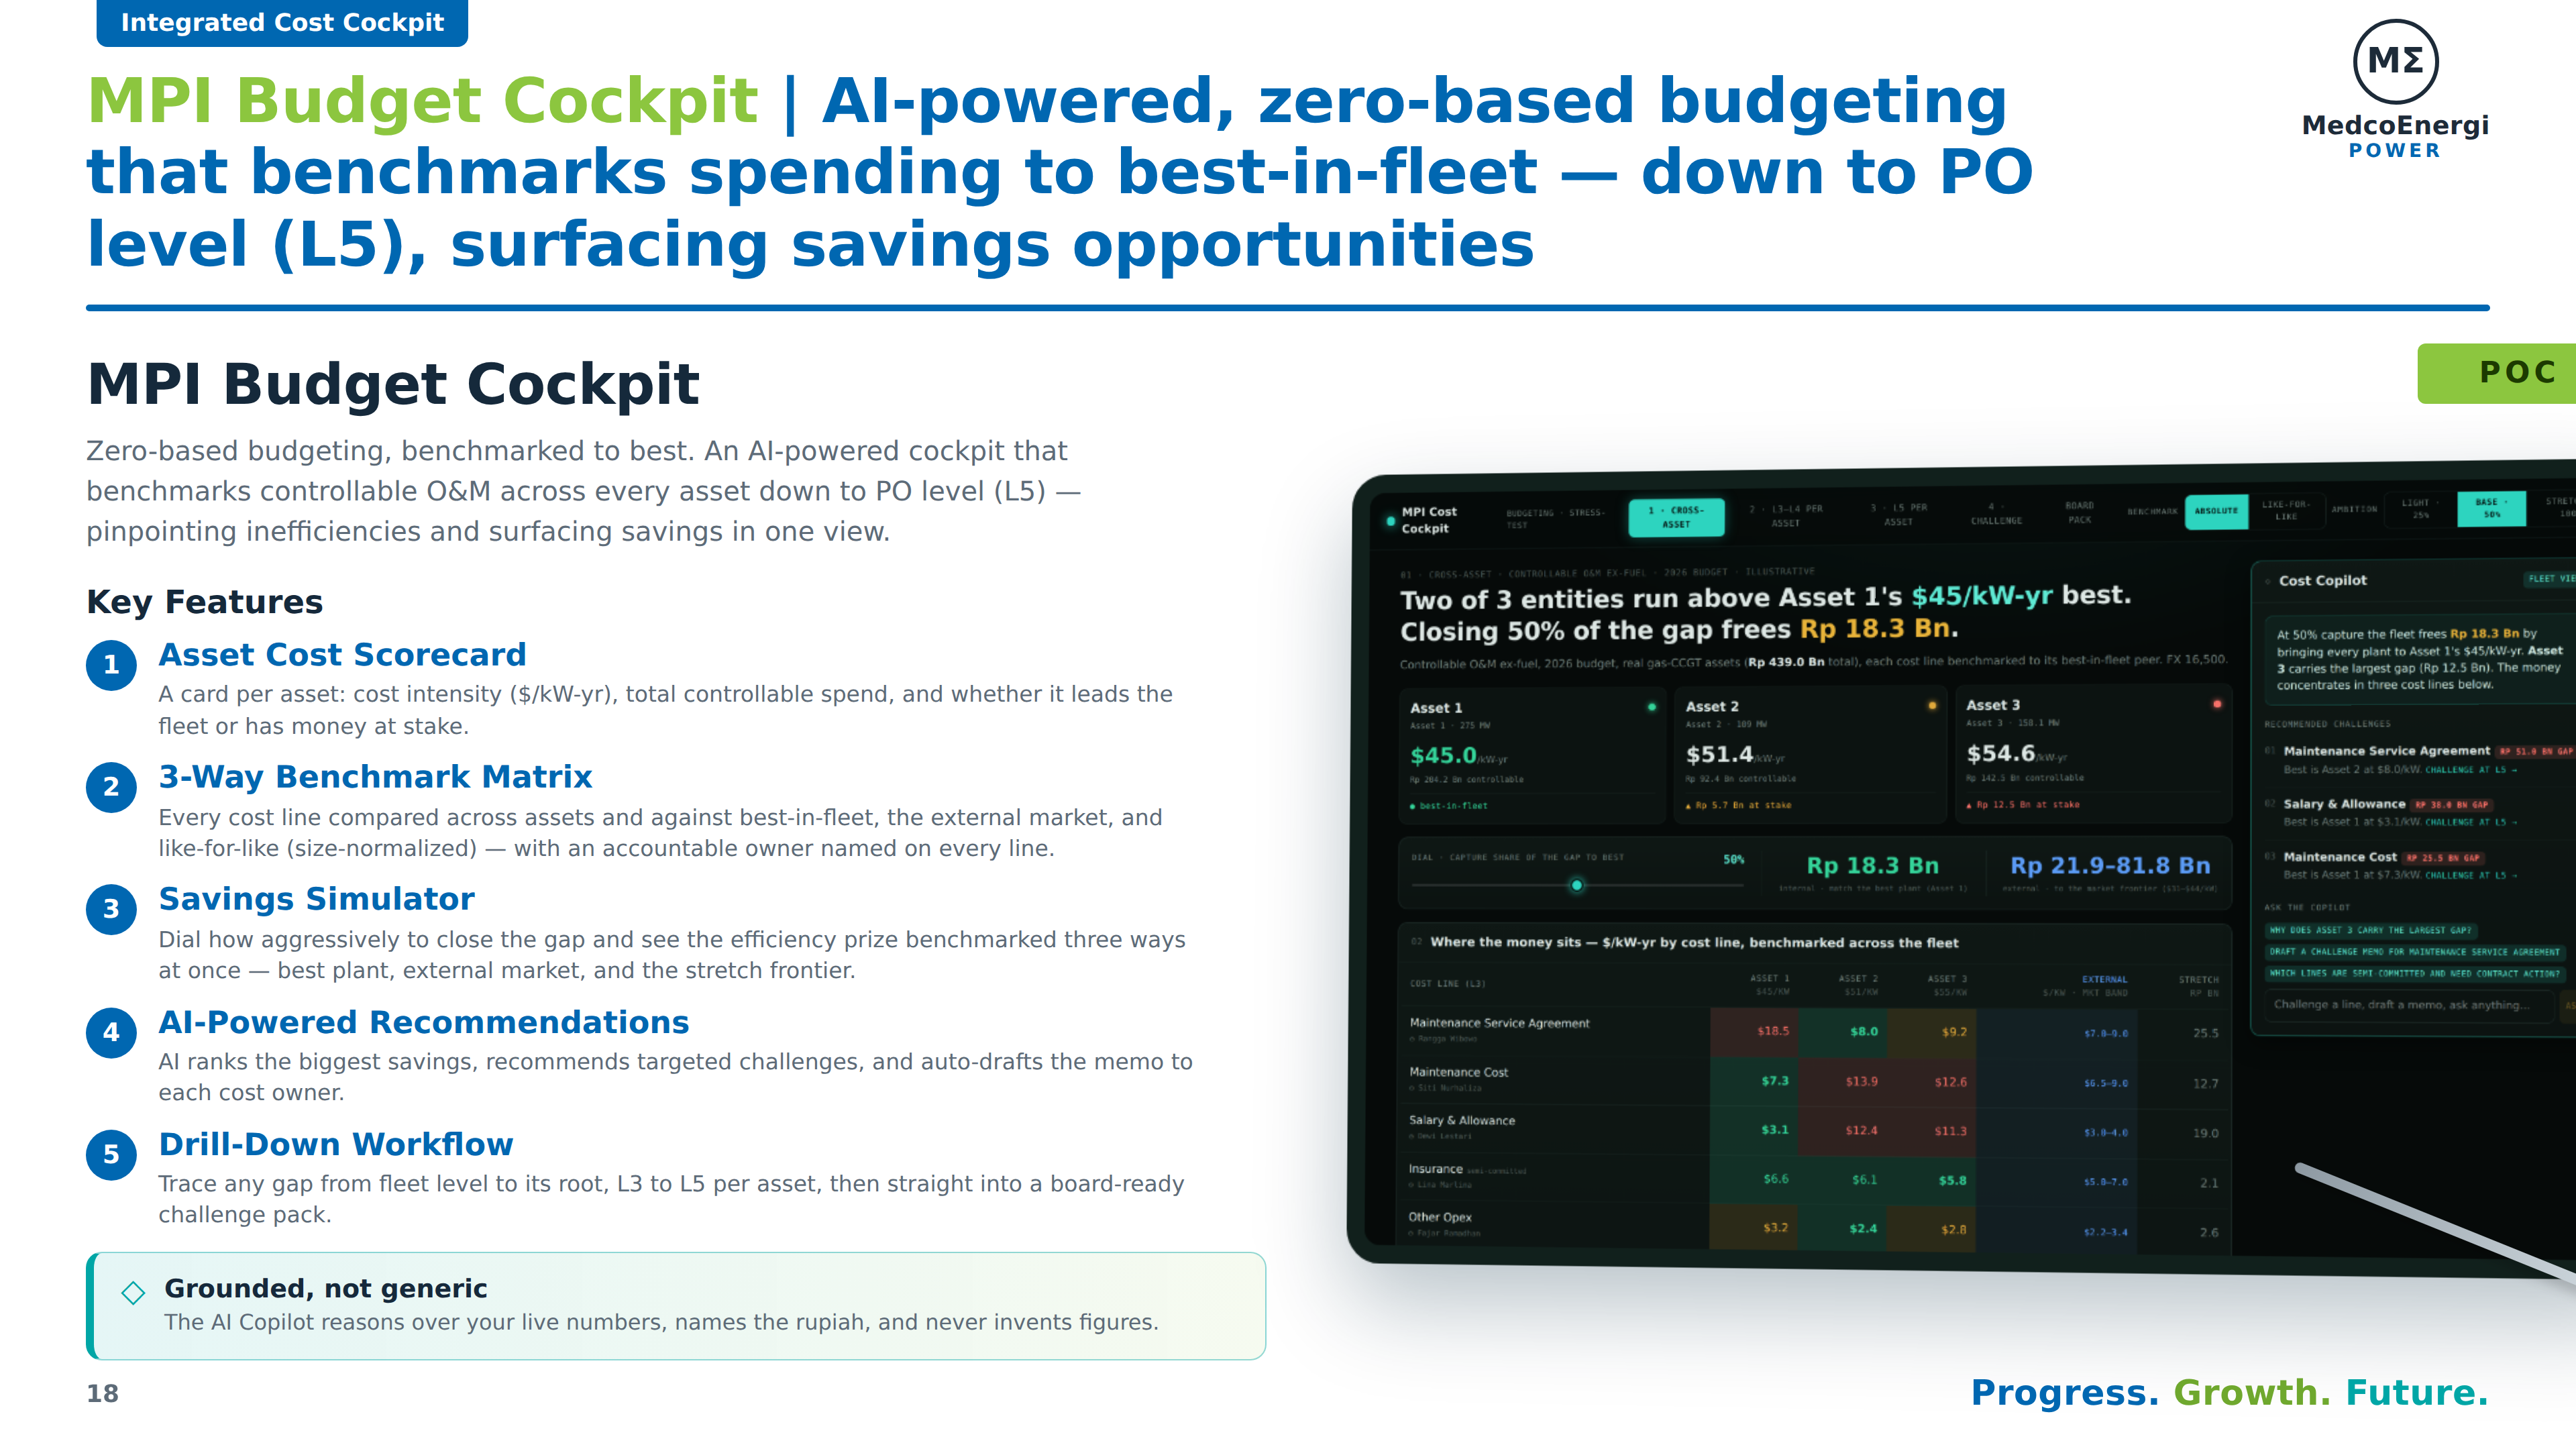
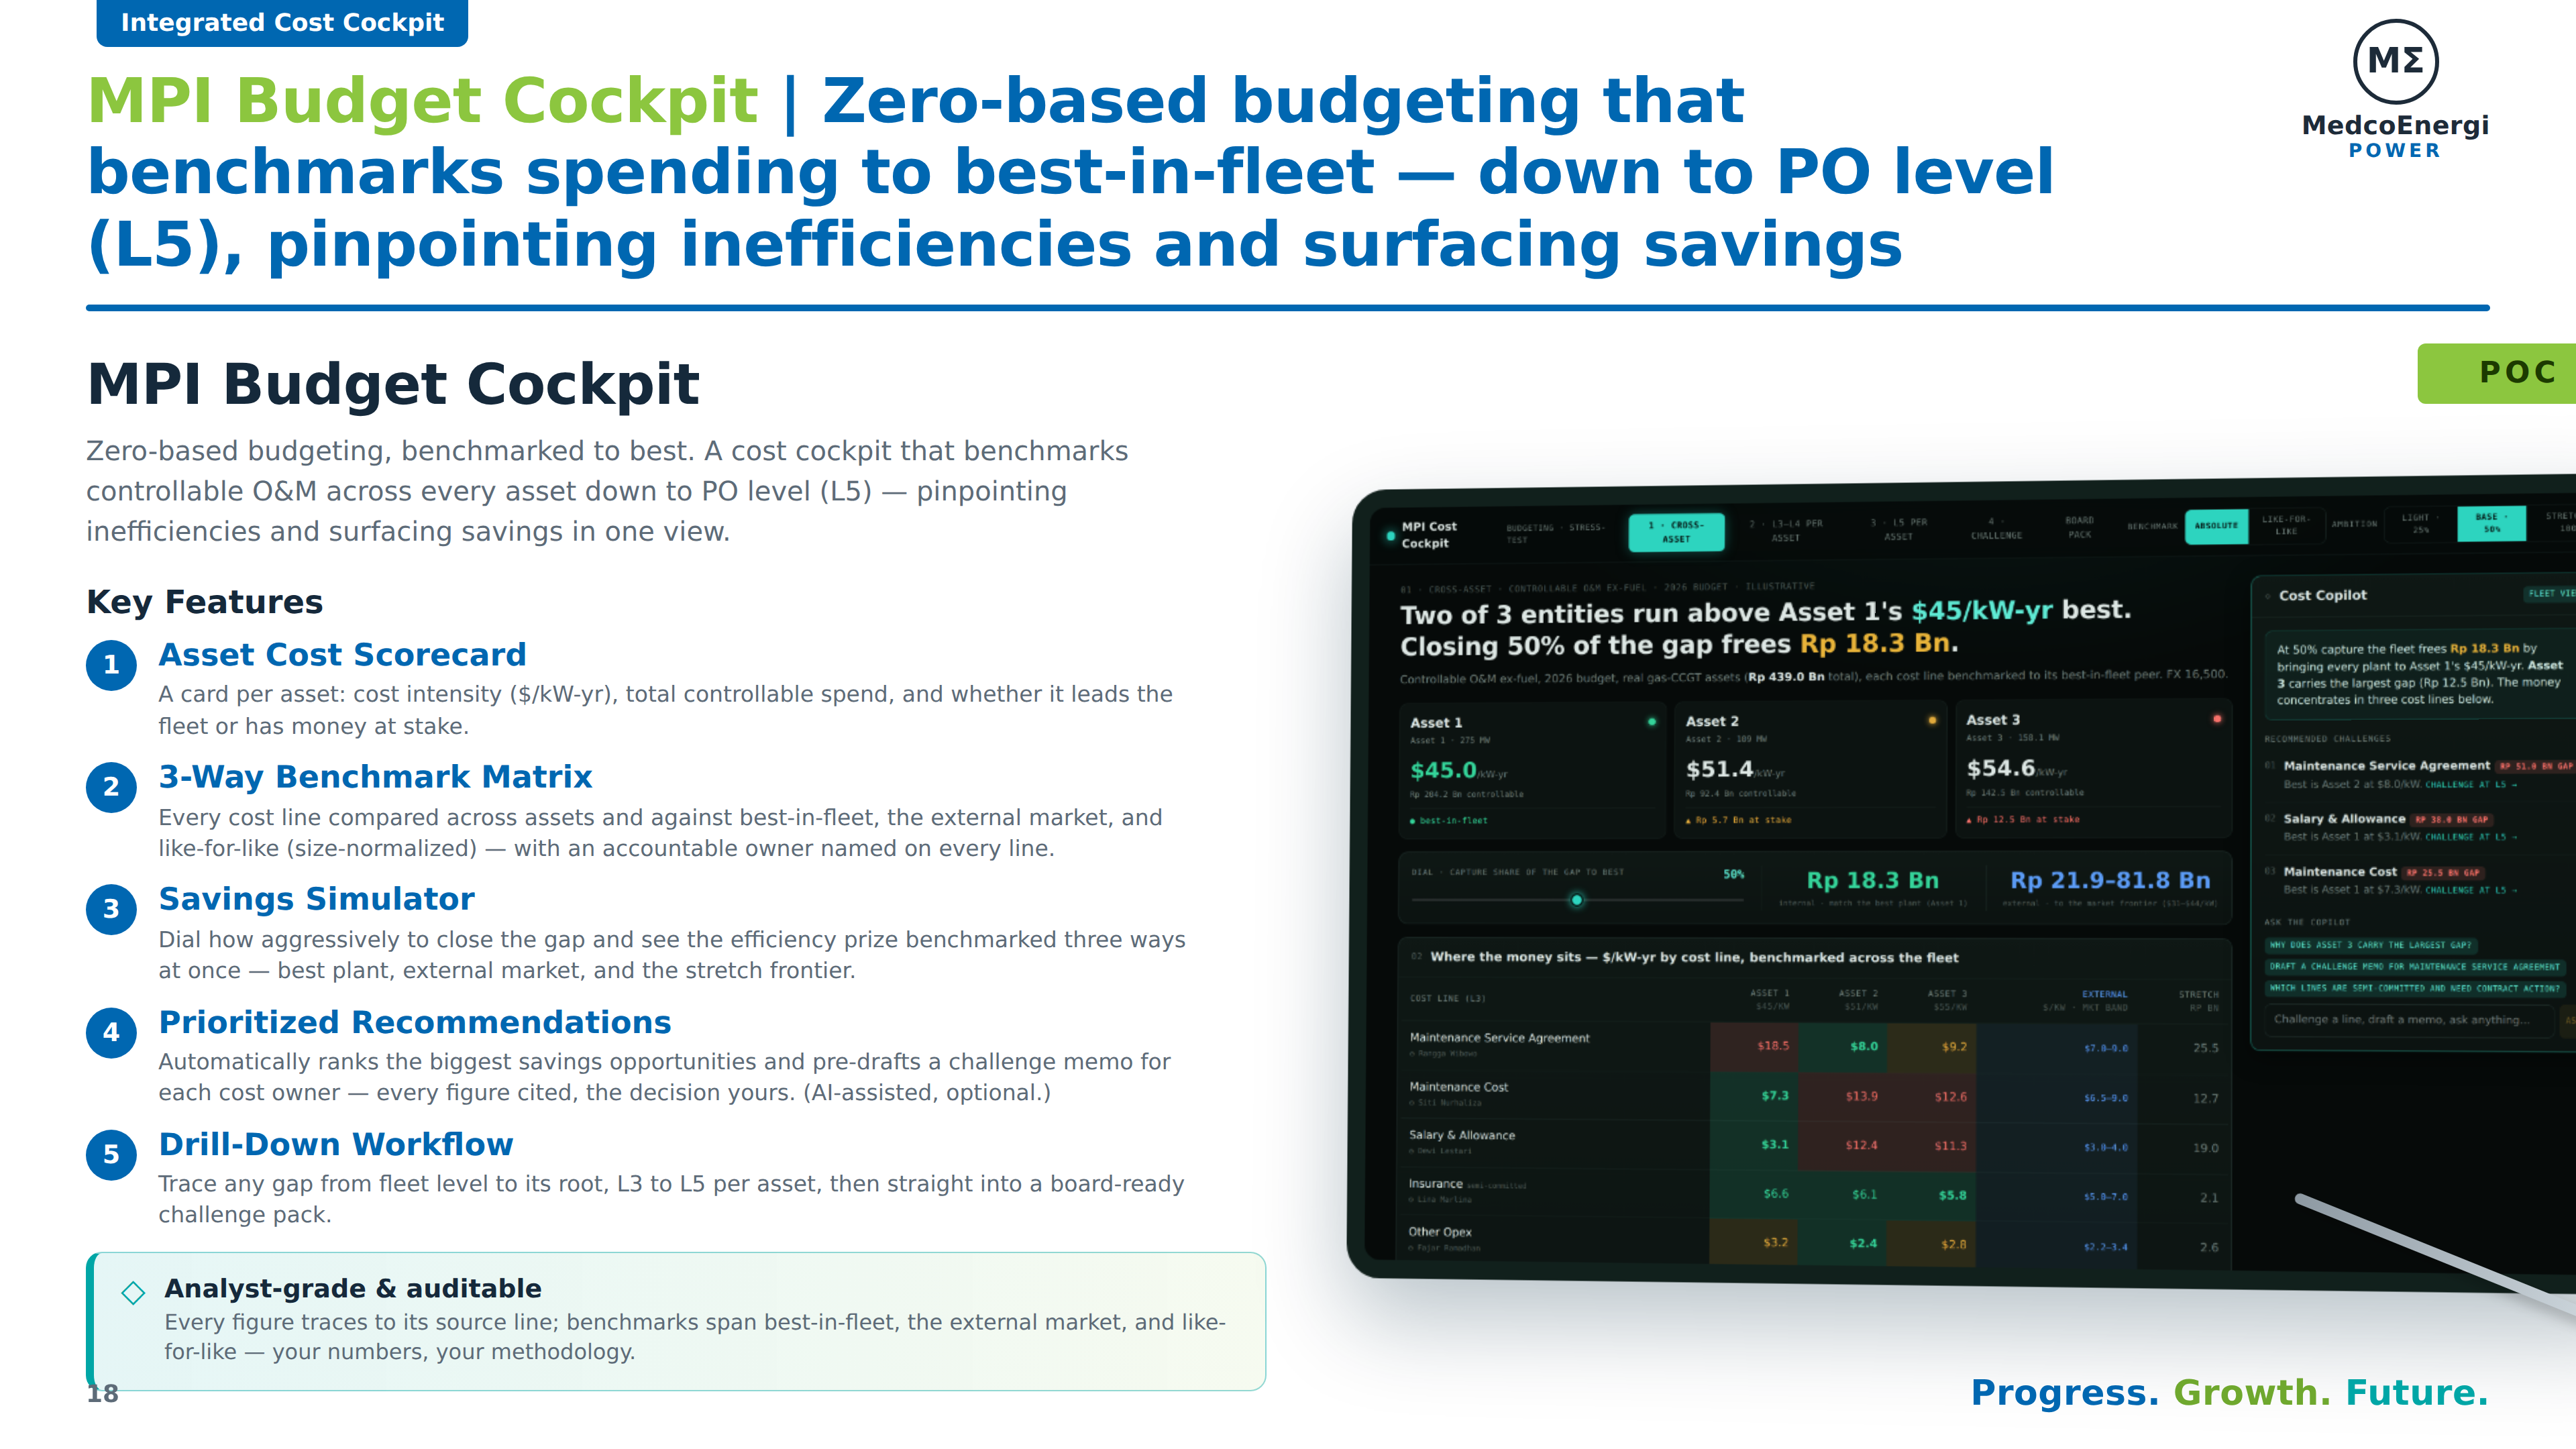
Slide: tone down AI emphasis for a skeptical audience
- Drop "AI-powered" from the headline and lead; lead with the cost/benchmark value.
- Feature 4 "AI-Powered Recommendations" → "Prioritized Recommendations"
  (analytics that ranks + pre-drafts; decision yours; AI-assisted noted as optional).
- Replace the "Grounded, not generic" AI callout with "Analyst-grade & auditable"
  (source-traceable figures; best-in-fleet / market / like-for-like benchmarks).

Claude-Session: https://claude.ai/code/session_01TYyWmHMkz5qiZZn92kdjqz

diff --git a/demo/slides/medco-slide.html b/demo/slides/medco-slide.html
@@ -56,7 +56,7 @@
   <div class="htop">
     <div style="flex:1">
       <div class="tab">Integrated Cost Cockpit</div>
-      <div class="title"><span class="g">MPI Budget Cockpit</span> <span class="b">| AI-powered, zero-based budgeting that benchmarks spending to best-in-fleet — down to PO level (L5), surfacing savings opportunities</span></div>
+      <div class="title"><span class="g">MPI Budget Cockpit</span> <span class="b">| Zero-based budgeting that benchmarks spending to best-in-fleet — down to PO level (L5), pinpointing inefficiencies and surfacing savings</span></div>
     </div>
     <div class="logo">
       <div class="mark">M&Sigma;</div>
@@ -69,16 +69,16 @@
   <div class="body">
     <div class="left">
       <div class="h2">MPI Budget Cockpit</div>
-      <div class="lead">Zero-based budgeting, benchmarked to best. An AI-powered cockpit that benchmarks controllable O&amp;M across every asset down to PO level (L5) — pinpointing inefficiencies and surfacing savings in one view.</div>
+      <div class="lead">Zero-based budgeting, benchmarked to best. A cost cockpit that benchmarks controllable O&amp;M across every asset down to PO level (L5) — pinpointing inefficiencies and surfacing savings in one view.</div>
       <div class="kf">Key Features</div>
 
       <div class="feat"><div class="badge">1</div><div><div class="ft">Asset Cost Scorecard</div><div class="fd">A card per asset: cost intensity ($/kW-yr), total controllable spend, and whether it leads the fleet or has money at stake.</div></div></div>
       <div class="feat"><div class="badge">2</div><div><div class="ft">3-Way Benchmark Matrix</div><div class="fd">Every cost line compared across assets and against best-in-fleet, the external market, and like-for-like (size-normalized) — with an accountable owner named on every line.</div></div></div>
       <div class="feat"><div class="badge">3</div><div><div class="ft">Savings Simulator</div><div class="fd">Dial how aggressively to close the gap and see the efficiency prize benchmarked three ways at once — best plant, external market, and the stretch frontier.</div></div></div>
-      <div class="feat"><div class="badge">4</div><div><div class="ft">AI-Powered Recommendations</div><div class="fd">AI ranks the biggest savings, recommends targeted challenges, and auto-drafts the memo to each cost owner.</div></div></div>
+      <div class="feat"><div class="badge">4</div><div><div class="ft">Prioritized Recommendations</div><div class="fd">Automatically ranks the biggest savings opportunities and pre-drafts a challenge memo for each cost owner — every figure cited, the decision yours. (AI-assisted, optional.)</div></div></div>
       <div class="feat"><div class="badge">5</div><div><div class="ft">Drill-Down Workflow</div><div class="fd">Trace any gap from fleet level to its root, L3 to L5 per asset, then straight into a board-ready challenge pack.</div></div></div>
 
-      <div class="aibar"><div class="ic">◇</div><div><div class="at">Grounded, not generic</div><div class="ad">The AI Copilot reasons over your live numbers, names the rupiah, and never invents figures.</div></div></div>
+      <div class="aibar"><div class="ic">◇</div><div><div class="at">Analyst-grade &amp; auditable</div><div class="ad">Every figure traces to its source line; benchmarks span best-in-fleet, the external market, and like-for-like — your numbers, your methodology.</div></div></div>
     </div>
 
     <div class="right">